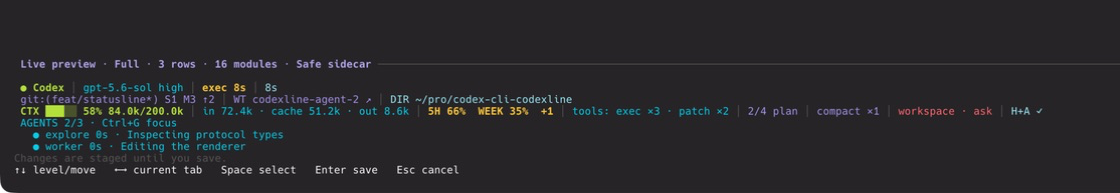
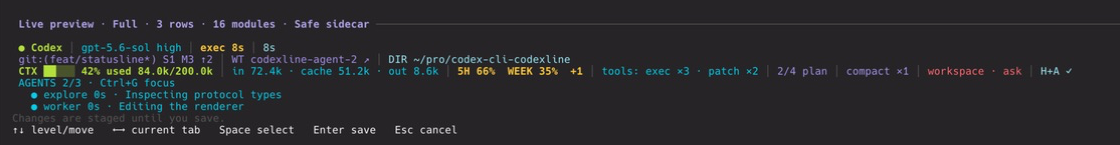
Clarify context usage and add Pastel Syntax theme

Changed region(s): [[0.0, 0.3034, 0.9688, 0.9379], [0.0, 0.1379, 1.0, 0.1931], [0.0, 0.9655, 0.0312, 1.0]]

diff --git a/src/render.rs b/src/render.rs
@@ -868,10 +868,9 @@ fn git_text(branch: &str, snapshot: &StatusSnapshot) -> String {
 
 fn context_bar(percent: u8) -> String {
     let percent = percent.min(100);
-    let free = 100_u8.saturating_sub(percent);
-    let filled = usize::from((free.saturating_add(10) / 20).min(5));
+    let filled = usize::from((percent.saturating_add(10) / 20).min(5));
     format!(
-        "CTX {}{} {free}%",
+        "CTX {}{} {percent}% used",
         "█".repeat(filled),
         "░".repeat(5 - filled)
     )
@@ -944,7 +943,8 @@ fn theme_base(theme: Theme) -> &'static str {
         | Theme::Dracula
         | Theme::Nord
         | Theme::Gruvbox
-        | Theme::RosePine => "\x1b[0m",
+        | Theme::RosePine
+        | Theme::PastelSyntax => "\x1b[0m",
         Theme::CodexDark => "\x1b[0m\x1b[48;2;17;20;22m\x1b[38;2;214;222;217m",
         Theme::CodexLight => "\x1b[0m\x1b[48;2;238;242;239m\x1b[38;2;35;42;38m",
         Theme::Minimal | Theme::Mono => "\x1b[0m",
@@ -958,6 +958,7 @@ fn theme_separator(theme: Theme) -> &'static str {
     match theme {
         Theme::Inherit => "\x1b[2m",
         Theme::Ox96f => "\x1b[38;2;84;84;82m",
+        Theme::PastelSyntax => "\x1b[38;2;112;190;181m",
         Theme::CodexDark => "\x1b[38;2;74;85;79m",
         Theme::CodexLight => "\x1b[38;2;153;164;157m",
         Theme::Minimal => "\x1b[2m",
@@ -1200,6 +1201,44 @@ fn theme_segment(theme: Theme, segment: Segment, snapshot: &StatusSnapshot) -> &
             | Segment::AppServerHealth => "\x1b[38;2;157;234;246m",
         };
     }
+    if matches!(theme, Theme::PastelSyntax) {
+        return match segment {
+            Segment::App => "\x1b[1m\x1b[38;2;238;238;242m",
+            Segment::Model
+            | Segment::Reasoning
+            | Segment::Agents
+            | Segment::AgentCount
+            | Segment::Tools
+            | Segment::Tokens
+            | Segment::InputTokens
+            | Segment::CachedTokens
+            | Segment::OutputTokens => "\x1b[38;2;126;162;224m",
+            Segment::Work => "\x1b[1m\x1b[38;2;225;145;170m",
+            Segment::Context | Segment::ContextRemaining | Segment::ContextUsed => {
+                "\x1b[1m\x1b[38;2;225;145;170m"
+            }
+            Segment::RateLimits
+            | Segment::FiveHourLimit
+            | Segment::WeeklyLimit
+            | Segment::ResetCredits => "\x1b[38;2;191;190;218m",
+            Segment::Git
+            | Segment::GitDirty
+            | Segment::GitStaged
+            | Segment::GitModified
+            | Segment::GitSync
+            | Segment::Worktree
+            | Segment::ProjectRoot
+            | Segment::Plan
+            | Segment::Compactions => "\x1b[38;2;151;201;144m",
+            Segment::Safety => "\x1b[38;2;225;145;170m",
+            Segment::Status | Segment::HooksHealth | Segment::AppServerHealth => {
+                "\x1b[38;2;112;190;181m"
+            }
+            Segment::Elapsed | Segment::Cwd | Segment::ContextWindow | Segment::SessionId => {
+                "\x1b[38;2;174;176;202m"
+            }
+        };
+    }
     if let Some(palette) = color_palette(theme) {
         return palette_segment(palette, segment, snapshot);
     }
@@ -1324,6 +1363,25 @@ mod tests {
     }
 
     #[test]
+    fn context_summary_always_labels_used_capacity() {
+        let display = DisplayConfig {
+            rows: 1,
+            segments: vec![Segment::Context],
+            ..DisplayConfig::default()
+        };
+        let mut snapshot = StatusSnapshot {
+            context_percent: Some(0),
+            ..StatusSnapshot::default()
+        };
+        let fresh = status_layouts(80, &display, &snapshot, 8);
+        assert_eq!(fresh[0][0].1, "CTX ░░░░░ 0% used");
+
+        snapshot.context_percent = Some(75);
+        let used = status_layouts(80, &display, &snapshot, 8);
+        assert_eq!(used[0][0].1, "CTX ████░ 75% used");
+    }
+
+    #[test]
     fn granular_segments_render_real_snapshot_values() {
         let display = DisplayConfig {
             rows: 3,
@@ -1406,6 +1464,7 @@ mod tests {
             (Theme::Nord, "\x1b[38;2;136;192;208m"),
             (Theme::Gruvbox, "\x1b[38;2;142;192;124m"),
             (Theme::RosePine, "\x1b[38;2;235;188;186m"),
+            (Theme::PastelSyntax, "\x1b[1m\x1b[38;2;225;145;170m"),
         ] {
             let preview = preview_ansi(
                 100,

diff --git a/src/cli.rs b/src/cli.rs
@@ -237,6 +237,7 @@ fn configure_linear() -> Result<i32> {
     println!(" 10  Nord (transparent)");
     println!(" 11  Gruvbox (transparent)");
     println!(" 12  Rosé Pine (transparent)");
+    println!(" 13  Pastel Syntax (pink context, transparent)");
     let theme_default = theme_number(config.display.theme);
     let theme = prompt(&format!("Theme [{theme_default}]: "))?;
     config.display.theme = match if theme.is_empty() {
@@ -256,7 +257,8 @@ fn configure_linear() -> Result<i32> {
         "10" => Theme::Nord,
         "11" => Theme::Gruvbox,
         "12" => Theme::RosePine,
-        _ => anyhow::bail!("expected a theme from 1 to 12; no changes were saved"),
+        "13" => Theme::PastelSyntax,
+        _ => anyhow::bail!("expected a theme from 1 to 13; no changes were saved"),
     };
     let glyph_default = match config.display.glyphs {
         Glyphs::Unicode => "1",
@@ -573,6 +575,7 @@ fn theme_number(theme: Theme) -> &'static str {
         Theme::Nord => "10",
         Theme::Gruvbox => "11",
         Theme::RosePine => "12",
+        Theme::PastelSyntax => "13",
     }
 }
 

diff --git a/src/config_ui.rs b/src/config_ui.rs
@@ -858,10 +858,11 @@ fn theme_index(theme: Theme) -> usize {
         Theme::Nord => 5,
         Theme::Gruvbox => 6,
         Theme::RosePine => 7,
-        Theme::CodexDark => 8,
-        Theme::CodexLight => 9,
-        Theme::Minimal => 10,
-        Theme::Mono => 11,
+        Theme::PastelSyntax => 8,
+        Theme::CodexDark => 9,
+        Theme::CodexLight => 10,
+        Theme::Minimal => 11,
+        Theme::Mono => 12,
     }
 }
 
@@ -878,6 +879,10 @@ fn theme_choices() -> &'static [(Theme, &'static str)] {
         (Theme::Nord, "Theme · Nord · transparent"),
         (Theme::Gruvbox, "Theme · Gruvbox · transparent"),
         (Theme::RosePine, "Theme · Rosé Pine · transparent"),
+        (
+            Theme::PastelSyntax,
+            "Theme · Pastel Syntax · pink context · transparent",
+        ),
         (Theme::CodexDark, "Theme · Codex Dark · fixed background"),
         (Theme::CodexLight, "Theme · Codex Light · fixed background"),
         (Theme::Minimal, "Theme · Minimal"),

diff --git a/src/config.rs b/src/config.rs
@@ -171,6 +171,7 @@ pub enum Theme {
     Nord,
     Gruvbox,
     RosePine,
+    PastelSyntax,
     CodexDark,
     CodexLight,
     Minimal,

diff --git a/README.md b/README.md
@@ -29,6 +29,12 @@ That is the complete first-run flow: **install → configure → verify → star
 Codexline installs as a separate `codexline` command and never overwrites the
 official `codex` executable.
 
+Already installed? Update to the latest commit with:
+
+```bash
+cargo install --git https://github.com/YongshengWin/codex-cli-codexline --locked --bin codexline --force
+```
+
 | Command | What it does |
 | --- | --- |
 | `codexline` | Start interactive Codex with the HUD |
@@ -58,7 +64,7 @@ data.
 | Area | Available information |
 | --- | --- |
 | Session | Model, reasoning effort, run state, current tool, elapsed time |
-| Usage | Context pressure, input/cache/output tokens, 5-hour and weekly limits, reset time |
+| Usage | Context used, input/cache/output tokens, 5-hour and weekly limits, reset time |
 | Workspace | Directory, project root, Git branch, dirty/staged/modified counts, ahead/behind, worktree |
 | Activity | Recent tools, plan progress, compactions, active/total agents |
 | Runtime | Sandbox, approval mode, permissions, data-source health |
@@ -70,7 +76,7 @@ rendered as misleading zeroes.
 
 Other design choices:
 
-- 12 built-in themes, transparent palettes, Unicode and ASCII modes
+- 13 built-in themes, transparent palettes, Unicode and ASCII modes
 - Responsive one-to-three-row layouts with width-aware truncation
 - Native Codex footer detection and companion-scoped suppression
 - Direct fallback for pipes, CI, `TERM=dumb`, tiny terminals and explicit bypass
@@ -98,8 +104,10 @@ at the bottom.
 | `Esc` | Exit without saving |
 
 Themes include Inherit Terminal, 0x96f Neon, Tokyo Night, Catppuccin Mocha,
-Dracula, Nord, Gruvbox, Rosé Pine, Codex Dark, Codex Light, Minimal and Mono.
-Transparent themes preserve the terminal's original background.
+Dracula, Nord, Gruvbox, Rosé Pine, Pastel Syntax, Codex Dark, Codex Light,
+Minimal and Mono. Pastel Syntax uses the requested soft syntax palette with a
+pink context progress indicator. Transparent themes preserve the terminal's
+original background.
 
 For a line-by-line accessible fallback:
 

diff --git a/README.zh-CN.md b/README.zh-CN.md
@@ -27,6 +27,12 @@ codexline
 完整首次流程就是：**安装 → 配置 → 检查 → 启动**。Codexline 会安装为独立的
 `codexline` 命令，绝不会覆盖官方 `codex`。
 
+已经安装时，使用下面的命令更新到最新提交：
+
+```bash
+cargo install --git https://github.com/YongshengWin/codex-cli-codexline --locked --bin codexline --force
+```
+
 | 命令 | 功能 |
 | --- | --- |
 | `codexline` | 启动带 HUD 的交互式 Codex |
@@ -54,7 +60,7 @@ codexline
 | 分类 | 可展示信息 |
 | --- | --- |
 | 会话 | 模型、推理等级、运行状态、当前工具、耗时 |
-| 用量 | 上下文压力、输入/缓存/输出 Token、5 小时与周额度、重置时间 |
+| 用量 | 已使用上下文、输入/缓存/输出 Token、5 小时与周额度、重置时间 |
 | 工作区 | 目录、项目根目录、Git 分支、脏/暂存/修改数量、ahead/behind、worktree |
 | 活动 | 最近工具、计划进度、压缩次数、活动/总子代理数量 |
 | 运行环境 | 沙箱、审批模式、权限和数据源健康状态 |
@@ -65,7 +71,7 @@ Codex 暴露子代理活动时，Agent Inspector 会在主 HUD 下展开。按 `
 
 其他关键能力：
 
-- 12 套内置主题、透明配色、Unicode 与 ASCII 模式
+- 13 套内置主题、透明配色、Unicode 与 ASCII 模式
 - 根据终端宽度自动截断的一至三行布局
 - 检测原生 Codex footer，并仅在伴生会话内关闭它
 - 管道、CI、`TERM=dumb`、极小终端和显式旁路自动降级
@@ -92,7 +98,8 @@ codexline config
 | `Esc` | 不保存并退出 |
 
 主题包括 Inherit Terminal、0x96f Neon、Tokyo Night、Catppuccin Mocha、
-Dracula、Nord、Gruvbox、Rosé Pine、Codex Dark、Codex Light、Minimal 和 Mono。
+Dracula、Nord、Gruvbox、Rosé Pine、Pastel Syntax、Codex Dark、Codex Light、
+Minimal 和 Mono。Pastel Syntax 使用图示的柔和语法色，并以粉色显示上下文进度。
 透明主题会保留终端原有背景。
 
 需要逐行交互的无障碍兼容模式时：
